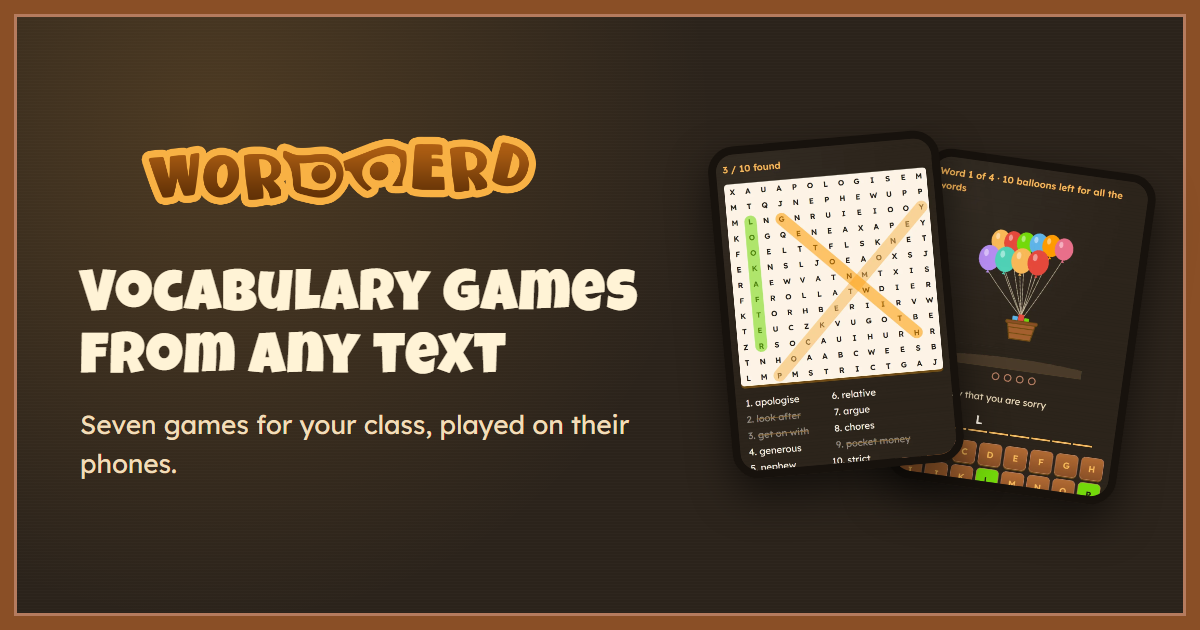
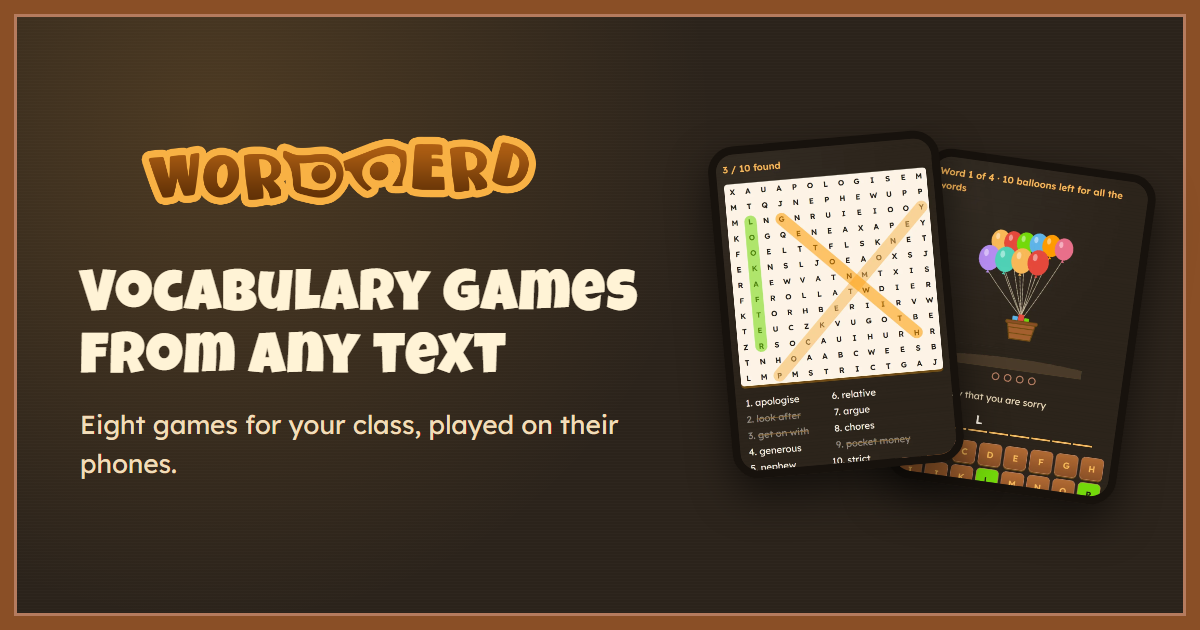
Landing and cover: eight games, Bridge, class goal, pasted screenshots

Changed region(s): [[0.0617, 0.6635, 0.5242, 0.6937]]

diff --git a/public/index.html b/public/index.html
@@ -9,14 +9,14 @@
     if (/^#sso=/.test(location.hash)) location.replace('/teacher' + location.hash);
   </script>
   <title>WordNerd: vocabulary games from any text</title>
-  <meta name="description" content="Paste a reading text or snap a coursebook page. WordNerd picks the words worth learning and builds seven vocabulary games your class plays on their phones with a code.">
+  <meta name="description" content="Paste a reading text or snap a coursebook page. WordNerd picks the words worth learning and builds eight vocabulary games your class plays on their phones with a code.">
   <link rel="canonical" href="https://wordnerd.mrandrewshub.com/">
   <meta name="theme-color" content="#2b231b">
   <meta property="og:type" content="website">
   <meta property="og:site_name" content="WordNerd">
   <meta property="og:url" content="https://wordnerd.mrandrewshub.com/">
   <meta property="og:title" content="WordNerd: vocabulary games from any text">
-  <meta property="og:description" content="Paste a reading text or snap a coursebook page. WordNerd picks the words worth learning and builds seven vocabulary games your class plays on their phones.">
+  <meta property="og:description" content="Paste a reading text or snap a coursebook page. WordNerd picks the words worth learning and builds eight vocabulary games your class plays on their phones.">
   <meta property="og:image" content="https://wordnerd.mrandrewshub.com/og-image.png">
   <meta property="og:image:width" content="1200">
   <meta property="og:image:height" content="630">
@@ -56,7 +56,7 @@
       <div class="hero-text">
         <img class="logo" src="/img/brand/WordNerd_logo.png" alt="WordNerd" width="2000" height="400">
         <h1>Turn any reading text into vocabulary games.</h1>
-        <p class="lead">Paste the text or take a photo of the coursebook page. You get up to 40 words at your students' level and seven games built from them. Students join on their phones with a code.</p>
+        <p class="lead">Paste the text, a screenshot or a photo of the coursebook page. You get up to 40 words at your students' level and eight games built from them. Students join on their phones with a code.</p>
         <div class="ctas">
           <a class="btn btn-primary" href="/teacher">Try it free</a>
           <a class="btn" href="#how">See how it works</a>
@@ -78,17 +78,17 @@
         <li class="card">
           <span class="num">1</span>
           <h3>Give it a text</h3>
-          <p>Paste a reading text, or upload a PDF or a photo of a page. Choose the level, the language for the translations and, if you like, a focus such as phrasal verbs.</p>
+          <p>Paste a reading text, or add up to four pages: PDFs, photos, or screenshots pasted with Ctrl+V. Choose the level, the language for the translations and, if you like, a focus such as phrasal verbs.</p>
         </li>
         <li class="card">
           <span class="num">2</span>
           <h3>Check the words</h3>
-          <p>About 30 seconds later you have the list. Every word comes with a translation, a simple English definition and an example sentence. Fix what you don't like and play the games yourself before the class does.</p>
+          <p>About half a minute later you have the list: the longer the text, the more words, up to 40. Every word comes with a translation, a simple English definition and an example sentence. Fix what you don't like and play the games yourself before the class does.</p>
         </li>
         <li class="card">
           <span class="num">3</span>
           <h3>Open a room</h3>
-          <p>Choose the games and their difficulty. Students type the six-letter code or scan the QR code and pick a nickname. They don't need an account or an app.</p>
+          <p>Choose the games and their difficulty, and if you like, a goal for the whole class. Students type the six-letter code or scan the QR code and pick a nickname. They don't need an account or an app.</p>
         </li>
         <li class="card">
           <span class="num">4</span>
@@ -100,8 +100,8 @@
 
     <section class="band" aria-labelledby="games-h">
       <div class="wrap section">
-        <h2 id="games-h">Seven games from one list</h2>
-        <p class="intro">All seven games use the same words. Students match them, spell them and put them into sentences. Everyone in a room gets the same puzzle.</p>
+        <h2 id="games-h">Eight games from one list</h2>
+        <p class="intro">All eight games use the same words. Students match them, spell them and put them into sentences. Everyone in a room gets the same puzzle.</p>
         <ul class="games">
           <li class="card game">
             <img src="/img/landing/memory.webp" alt="Memory on a phone: two pairs found among the cards" width="780" height="1120" loading="lazy">
@@ -130,6 +130,10 @@
           <li class="card game">
             <img src="/img/landing/drowning.webp" alt="Drowning on a phone: a telephone box filling with water while a word is typed" width="780" height="1200" loading="lazy">
             <h3>Drowning</h3><p>Type the word for each prompt before the telephone box fills with water.</p>
+          </li>
+          <li class="card game">
+            <img src="/img/landing/bridge.webp" alt="Bridge on a phone: the WordNerd figure on a half-built bridge, a sentence with a gap and four words to choose from" width="780" height="880" loading="lazy">
+            <h3>Bridge</h3><p>Choose the word that fits a new example sentence. Every right word lays a plank; a wrong one falls into the river.</p>
           </li>
         </ul>
       </div>
@@ -167,6 +171,7 @@
           <li><h3>Translations in 30 languages</h3><p>Definitions are in English, translations in your students' language.</p></li>
           <li><h3>Difficulty you choose</h3><p>Each game has its own settings: grid size, word directions, clue type, lives, speed.</p></li>
           <li><h3>Three stars per game</h3><p>Students can play a game again and their best try counts. The words they missed on the first try still show up for you.</p></li>
+          <li><h3>A goal for the whole class</h3><p>If you like, set a class goal: a share of all the stars. Everyone sees one progress bar for the class, never each other's stars.</p></li>
           <li><h3>Your library</h3><p>Every list you make stays in your library. Open a new room from it next week or next year.</p></li>
           <li><h3>Students stay anonymous</h3><p>They type a code and a nickname, nothing else. Only the teacher's side uses AI.</p></li>
         </ul>

diff --git a/public/dev/shot.js b/public/dev/shot.js
@@ -63,6 +63,13 @@ const STAGE = {
     const answer = puzzle.queue[0].answer;
     if (input) input.value = answer.slice(0, Math.ceil(answer.length / 2));
   },
+  async bridge() {
+    // three planks laid, the walker on the third, the fourth sentence waiting
+    for (const e of puzzle.queue.slice(0, 3)) {
+      [...root.querySelectorAll('.br-opt')].find((b) => b.textContent === e.answer)?.click();
+      await wait(1100);
+    }
+  },
   async hangman() {
     const word = puzzle.rounds[0].slots.filter((s) => s.letter).map((s) => s.letter);
     const press = (k) => [...root.querySelectorAll('.hm-key')].find((b) => b.textContent === k && !b.disabled)?.click();

diff --git a/public/dev/cover.html b/public/dev/cover.html
@@ -34,7 +34,7 @@
   <div class="text">
     <img class="logo" src="/img/brand/WordNerd_logo.png" alt="WordNerd">
     <h1>Vocabulary games from any text</h1>
-    <p>Seven games for your class, played on their phones.</p>
+    <p>Eight games for your class, played on their phones.</p>
   </div>
   <img class="phone back" src="/img/landing/hangman.webp" alt="">
   <img class="phone front" src="/img/landing/wordsearch.webp" alt="">

diff --git a/DEVLOG.md b/DEVLOG.md
@@ -583,3 +583,12 @@ reached after Bridge, confetti, the monitor says "Class goal reached".
 **Not verified**: a real phone; several students at once (the total is a Firestore increment in the result's
 transaction). **Going live needs both**: `firebase deploy --only functions:wordnerd` (stars, eight games, class
 goal, and the analysis prompt v5 from earlier today), then `main`.
+
+## Texts for the new line-up (2026-11-25)
+
+András: every text must follow the new line-up. Landing page: meta and og descriptions "eight games"; hero
+(screenshots, eight games); step 1 (up to four pages, PDFs, photos or pasted screenshots); step 2 (the longer the
+text, the more words, up to 40); step 3 (optional class goal); "Eight games from one list" with a Bridge card and
+screenshot (`scripts/shots.mjs bridge`, 390×440); a "A goal for the whole class" feature. Cover (`og-image.png`)
+re-taken from `dev/cover.html` ("Eight games"). No "seven games" left in `public/` or `scripts/` (only "seven
+days"). The Hub product text (tagline, description) says seven games: updated in the Hub admin after the deploy.
